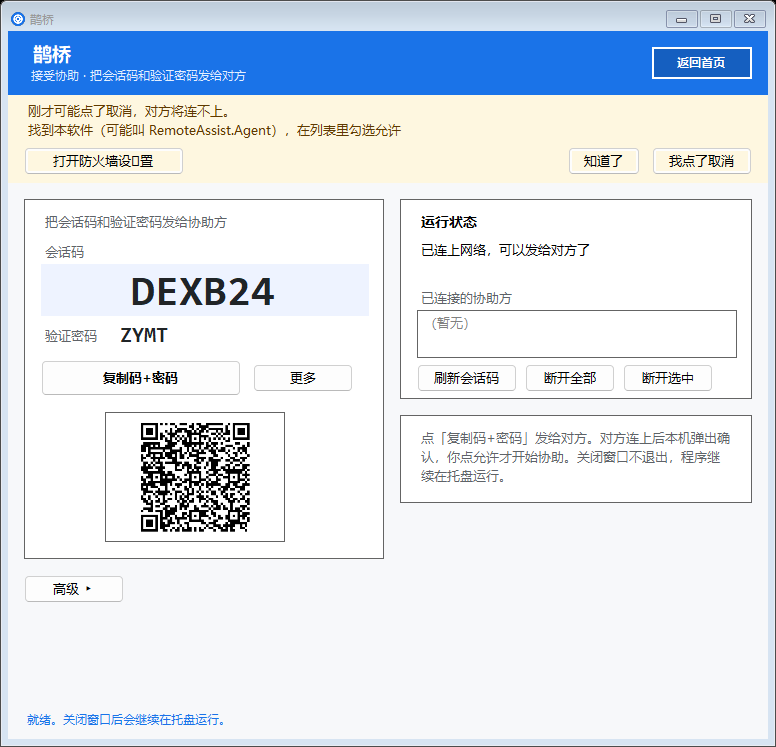
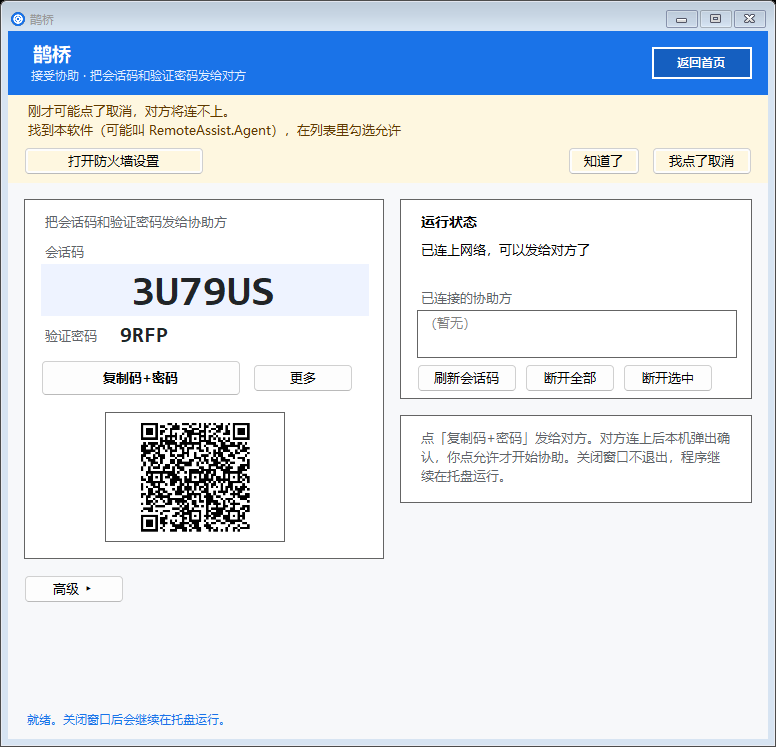
fix(R005): 去掉 Word Joiner，避免「设0置」
WinForms 把 U+2060 画成可见「0」。按钮与横幅改回字面「设置」，
用主动换行 + 加宽布局防折行；删除 KeepSettingTogether；重导出截图。

diff --git a/tests/RemoteAssist.Protocol.Tests/FriendConnectGuideTests.cs b/tests/RemoteAssist.Protocol.Tests/FriendConnectGuideTests.cs
@@ -33,7 +33,7 @@ public class FriendConnectGuideTests
         var text = "会话码：AB12CD\n验证密码：xyzw";
         Assert.True(FriendConnectGuide.TryParseShareText(text, out var code, out var pwd));
         Assert.Equal("AB12CD", code);
-        Assert.Equal("XYZW", pwd); // normalize upper? check SessionPasswordGenerator
+        Assert.Equal("XYZW", pwd);
     }
 
     [Fact]
@@ -65,14 +65,18 @@ public class FriendConnectGuideTests
     }
 
     [Fact]
-    public void MomentA_Copy_NoPorts()
+    public void MomentA_Copy_NoPorts_AndPlainSetting()
     {
         Assert.Contains("RemoteAssist.Agent", FriendConnectGuide.MomentAAllow);
         Assert.DoesNotContain("17890", FriendConnectGuide.MomentAAllow);
         Assert.DoesNotContain("放行入站", FriendConnectGuide.MomentAAllow);
-        Assert.Equal("打开防火墙设\u2060置", FriendConnectGuide.OpenFirewallButtonText);
-        Assert.Contains("设", FriendConnectGuide.MomentAAllow);
-        Assert.Contains("置", FriendConnectGuide.MomentAAllow);
-        Assert.Contains("\u2060", FriendConnectGuide.MomentAAllow);
+        Assert.Equal("打开防火墙设置", FriendConnectGuide.OpenFirewallButtonText);
+        Assert.Contains("系统设置", FriendConnectGuide.MomentAAllow);
+        Assert.Contains('\n', FriendConnectGuide.MomentAAllow);
+        // 禁止零宽/BOM：用 Ordinal IndexOf（文化敏感 Contains 会把 U+2060 当成可忽略字符误报）
+        Assert.Equal(-1, FriendConnectGuide.MomentAAllow.IndexOf('\u2060'));
+        Assert.Equal(-1, FriendConnectGuide.MomentAAllow.IndexOf('\uFEFF'));
+        Assert.Equal(-1, FriendConnectGuide.OpenFirewallButtonText.IndexOf('\u2060'));
+        Assert.Equal(-1, FriendConnectGuide.OpenFirewallButtonText.IndexOf('\uFEFF'));
     }
 }

diff --git a/tests/RemoteAssist.Protocol.Tests/McpInstallGuideTests.cs b/tests/RemoteAssist.Protocol.Tests/McpInstallGuideTests.cs
@@ -14,15 +14,17 @@ public class McpInstallGuideTests
         Assert.Contains("不能绕过", McpInstallGuide.Step3);
         Assert.DoesNotContain("17890", McpInstallGuide.StepsBlock);
         Assert.DoesNotContain("17891", McpInstallGuide.StepsBlock);
-        Assert.False(WriteConfirmCopy.ContainsBannedUiTerm(McpInstallGuide.StepsBlock.Replace("MCP", "")));
     }
 
     [Fact]
-    public void SettingWord_JoinerKeepsTogether_InMomentA()
+    public void BannerCopy_UsesPlainSetting_NoZeroWidthChars()
     {
-        Assert.Contains("\u2060", FriendConnectGuide.MomentAAllow);
-        Assert.Contains("\u2060", FriendConnectGuide.OpenFirewallButtonText);
-        // 不应再出现可被折成「改设」「置」的旧句式
-        Assert.DoesNotContain("不用改设置", FriendConnectGuide.MomentAAllow);
+        Assert.Equal("打开防火墙设置", FriendConnectGuide.OpenFirewallButtonText);
+        Assert.Contains("系统设置", FriendConnectGuide.MomentAAllow);
+        Assert.Equal(-1, FriendConnectGuide.MomentAAllow.IndexOf((char)0x2060));
+        Assert.Equal(-1, FriendConnectGuide.MomentAAllow.IndexOf((char)0xFEFF));
+        Assert.Equal(-1, FriendConnectGuide.OpenFirewallButtonText.IndexOf((char)0x2060));
+        Assert.DoesNotContain("设0置", FriendConnectGuide.MomentAAllow);
+        Assert.DoesNotContain("设0置", FriendConnectGuide.OpenFirewallButtonText);
     }
 }

diff --git a/src/RemoteAssist.Agent/MainForm.cs b/src/RemoteAssist.Agent/MainForm.cs
@@ -125,13 +125,14 @@ internal sealed class MainForm : Form
             Location = new Point(16, 6),
             Size = new Size(728, 44),
             ForeColor = Color.FromArgb(0x5F, 0x3A, 0x00),
-            Text = FriendConnectGuide.MomentAAllow
+            Text = FriendConnectGuide.MomentAAllow.Replace("\n", Environment.NewLine)
         };
         _btnFirewall = new Button
         {
             Text = FriendConnectGuide.OpenFirewallButtonText,
             Location = new Point(16, 52),
-            Size = new Size(160, 28),
+            Size = new Size(180, 28),
+            AutoSize = false,
             Visible = false
         };
         _btnFirewall.Click += (_, _) => FriendConnectGuide.OpenWindowsFirewallSettings();
@@ -515,7 +516,7 @@ internal sealed class MainForm : Form
             return;
         }
 
-        _bannerText.Text = FriendConnectGuide.MomentAAllow;
+        _bannerText.Text = FriendConnectGuide.MomentAAllow.Replace("\n", Environment.NewLine);
         _btnFirewall.Visible = false;
         if (!_banner.Visible)
         {

diff --git a/src/RemoteAssist.Protocol/FriendConnectGuide.cs b/src/RemoteAssist.Protocol/FriendConnectGuide.cs
@@ -20,7 +20,7 @@ public enum FriendConnectFailKind
 public static class FriendConnectGuide
 {
     public const string MomentAAllow =
-        "请点「允许」，让鹊桥连网。弹窗里也许写着 RemoteAssist.Agent，就是本软件。系统设\u2060置一般不用改。";
+        "请点「允许」，让鹊桥连网。弹窗里也许写着 RemoteAssist.Agent，就是本软件。\n系统设置一般不用改。";
 
     public const string MomentADenied =
         "刚才可能点了取消，对方将连不上。";
@@ -28,7 +28,7 @@ public static class FriendConnectGuide
     public const string MomentAFirewallHint =
         "找到本软件（可能叫 RemoteAssist.Agent），在列表里勾选允许";
 
-    public const string OpenFirewallButtonText = "打开防火墙设\u2060置";
+    public const string OpenFirewallButtonText = "打开防火墙设置";
 
     public const string StatusReadyToShare = "已连上网络，可以发给对方了";
     public const string StatusWaitingPeer = "等待对方连接";

diff --git a/tools/UiShot/Program.cs b/tools/UiShot/Program.cs
@@ -72,6 +72,16 @@ internal static class Program
             Thread.Sleep(200);
             Application.DoEvents();
             SaveForm(form, Path.Combine(outDir, "r005-agent-denied-banner.png"));
+            // OpenFirewallButtonText check
+            foreach (Control c in form.Controls)
+            {
+                if (c.Name != "banner") continue;
+                foreach (Control b in c.Controls)
+                {
+                    if (b is Button btn && btn.Text.Contains("防火墙", StringComparison.Ordinal))
+                        Console.WriteLine("firewall-btn=[" + btn.Text + "]");
+                }
+            }
             form.Hide();
         }
         finally

diff --git a/src/RemoteAssist.Protocol/McpInstallGuide.cs b/src/RemoteAssist.Protocol/McpInstallGuide.cs
@@ -25,8 +25,4 @@ public static class McpInstallGuide
 
     public const string CopiedPlaceholderHint =
         "已复制 MCP 配置（路径可能需改成实际 RemoteAssist.Mcp.exe）。请粘贴到 MCP 设置并保存。";
-
-    /// <summary>横幅「设置」防折行：用字面量「设置」两侧不可断（Word Joiner）。</summary>
-    public static string KeepSettingTogether(string text) =>
-        text.Replace("设置", "设\u2060置", StringComparison.Ordinal);
 }

diff --git a/docs/retro.md b/docs/retro.md
@@ -74,5 +74,5 @@
 ## R005 — MCP 安装指引 + 联网横幅收口（2026-11-05 Asia/Shanghai）
 
 - **交付**：协助端「如何安装 MCP」三步 +「复制 MCP 配置」；被协助端默认首屏无 MCP；已连上网络时收起「请点允许」横幅；「我点了取消」显示恢复步骤；横幅「设置」用字连接防折行。截图 ``docs/screenshots/r005-*.png``；测试 134 绿。
-- **踩坑**：WinForms 中文按字折行，「设置」会被拆成「改设 / 置」——用 U+2060 Word Joiner，并加宽横幅文本区。
+- **踩坑**：WinForms 中文按字折行，「设置」会被拆成「改设 / 置」——不要用 U+2060 Word Joiner（WinForms 会画成可见「0」，出现「设0置」）；在标点处主动换行并加宽横幅/按钮即可。
 - **规则候选**：协助向能力（MCP）只放协助端；被协助端亲友主路径保持零 MCP。
